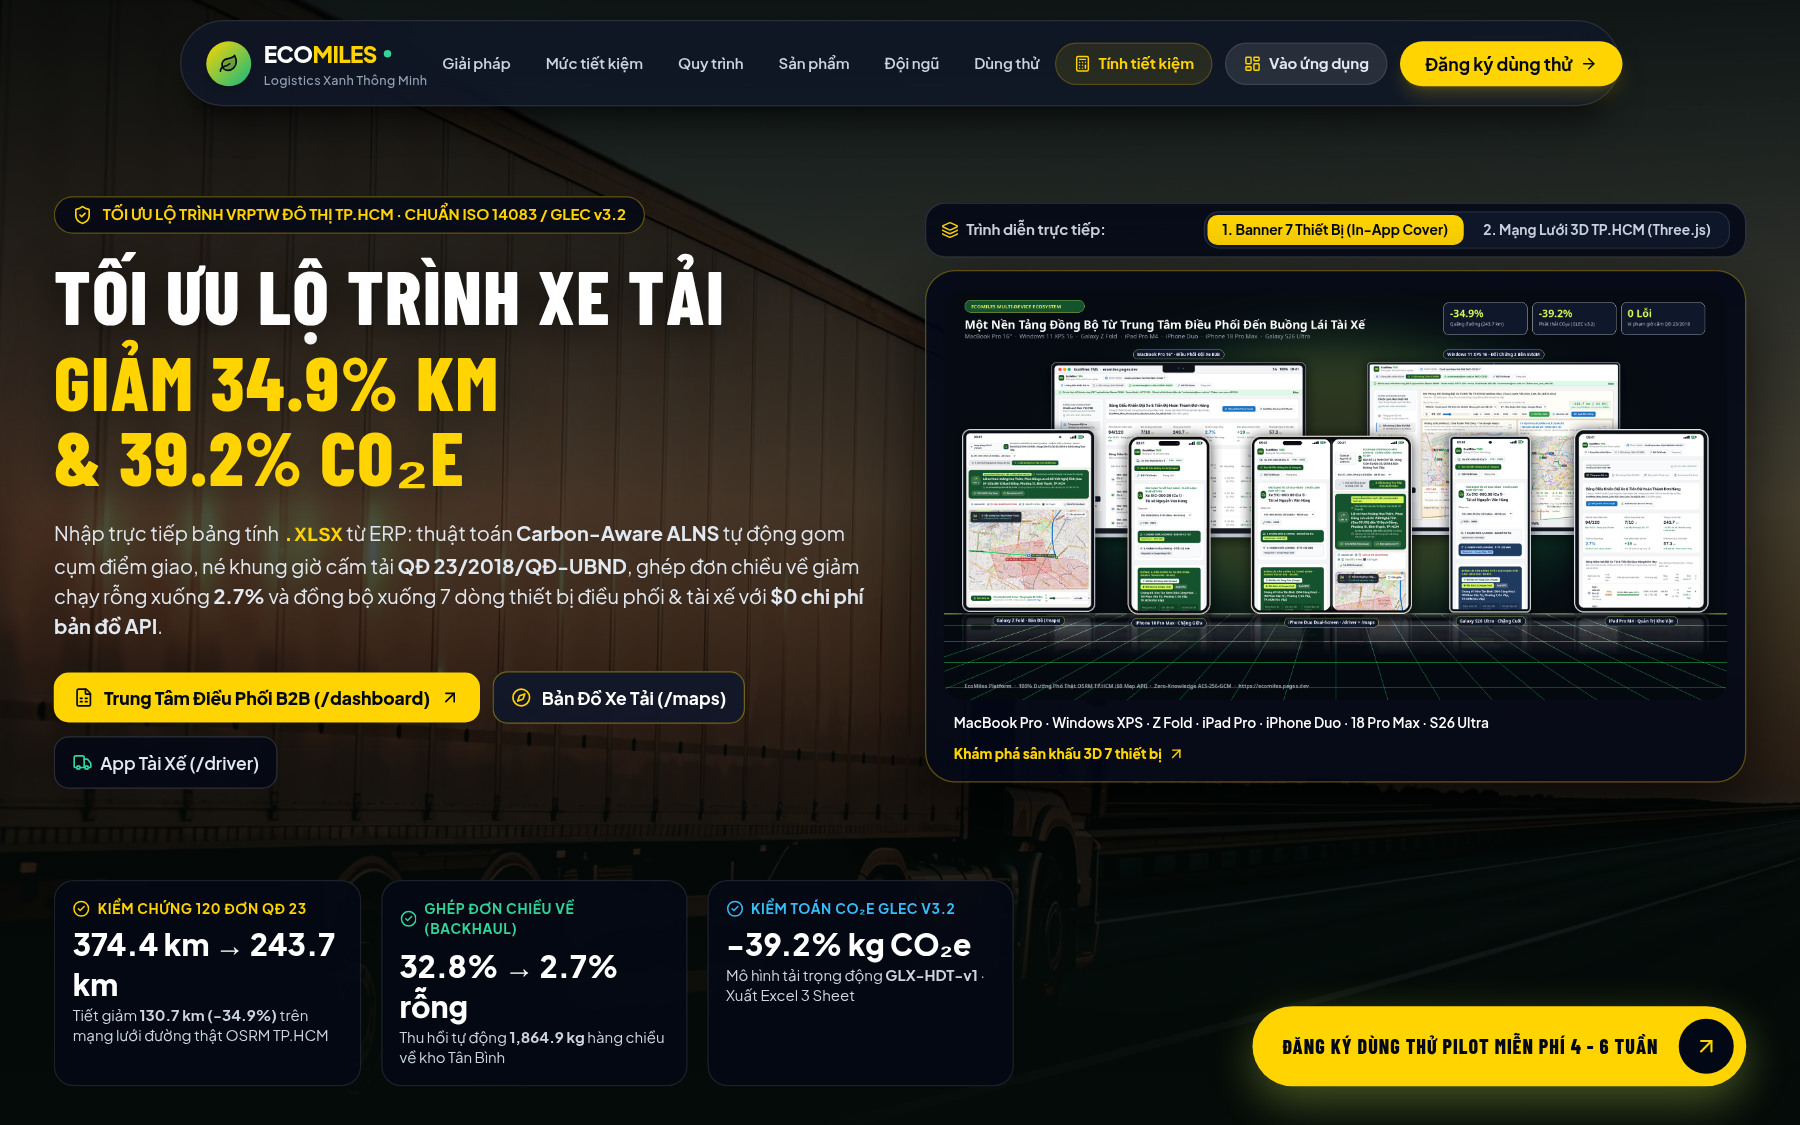
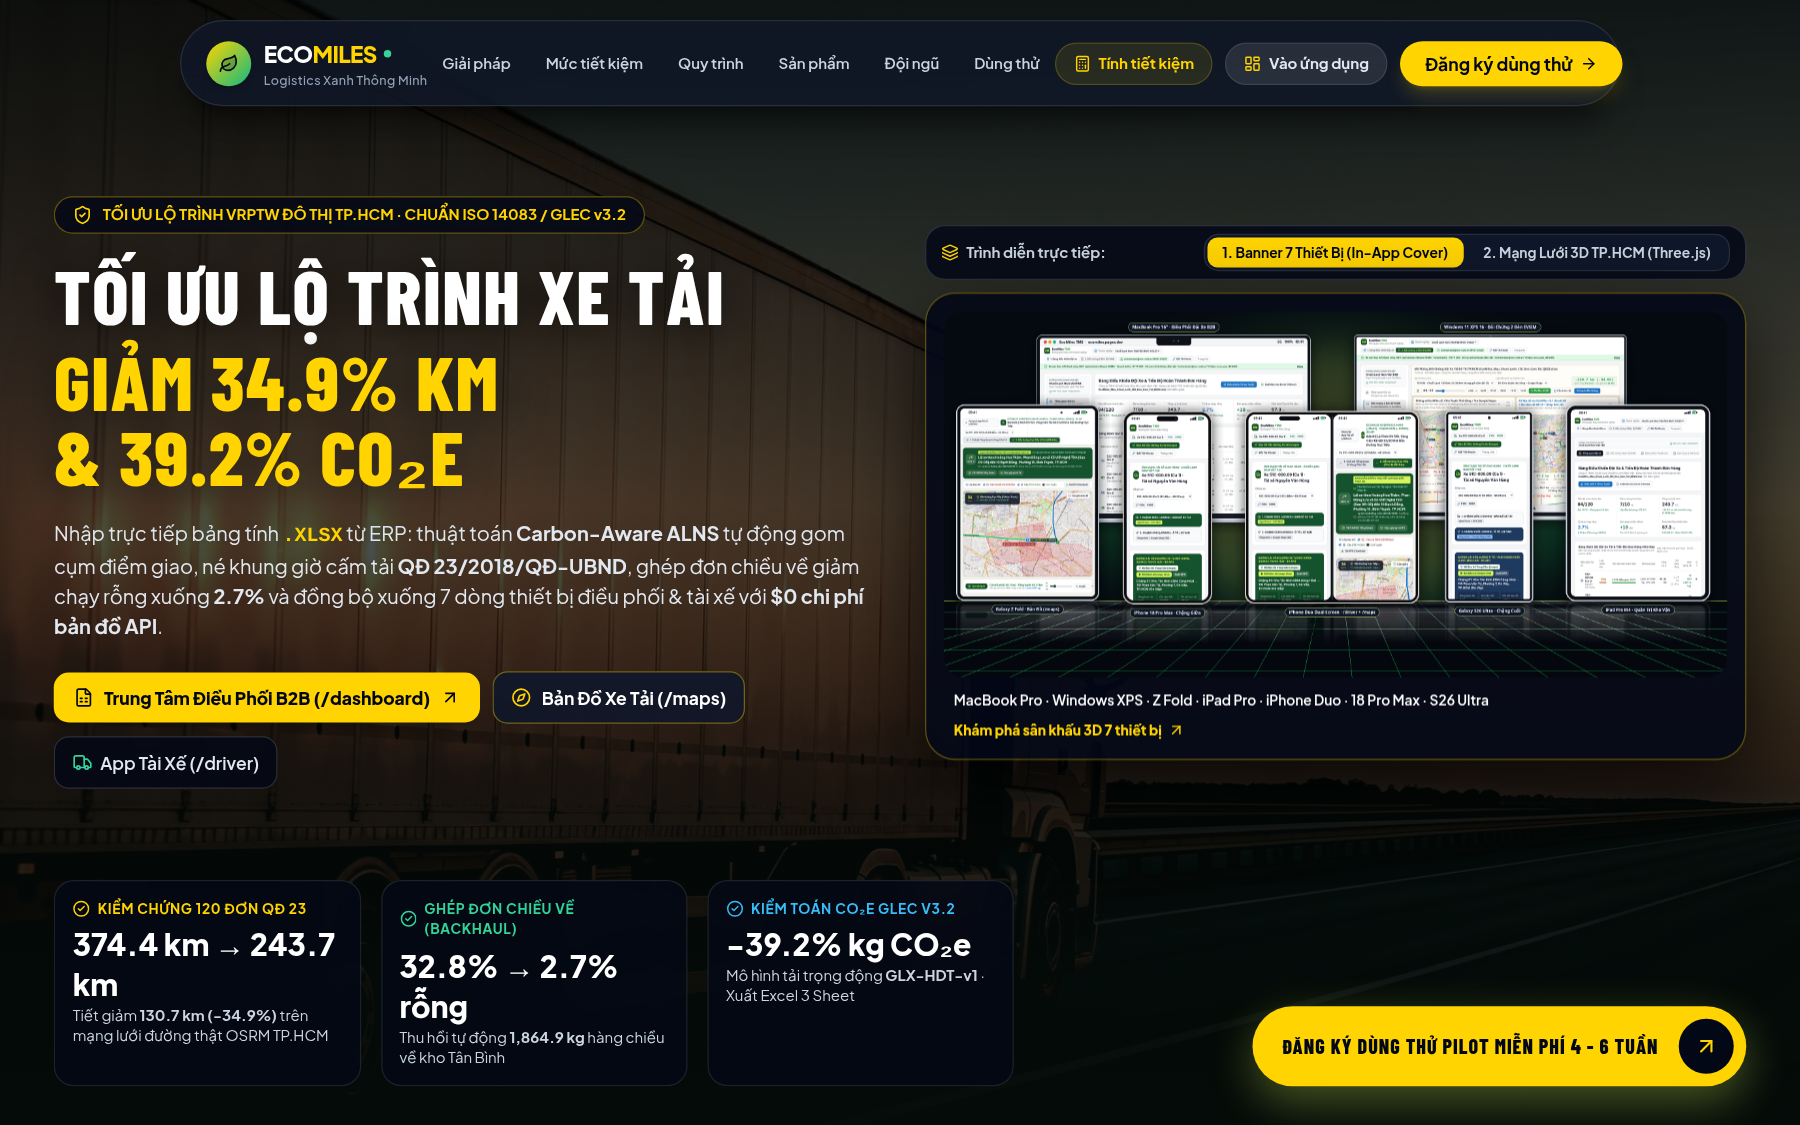
feat(phase4-react-loop): add pure 7-device hardware hero stage (zero baked-in text duplication), LinearFilter + 3D physical chassis in WebGL, and og:image cover meta tags (CR: CR-20261027-001)

Changed region(s): [[0.4978, 0.1556, 0.9956, 0.6844]]

diff --git a/apps/landing/src/components/ThreeDeviceEcosystemBanner.tsx b/apps/landing/src/components/ThreeDeviceEcosystemBanner.tsx
@@ -260,17 +260,35 @@ export const ThreeDeviceEcosystemBanner: React.FC<ThreeDeviceEcosystemBannerProp
       syncPulses.push(pulse);
     });
 
-    // Load 7 Real Device Textures (threejs-textures: tag SRGBColorSpace + maxAnisotropy)
+    // Load 7 Real Device Textures (threejs-textures: SRGBColorSpace + LinearFilter + 3D Physical Chassis Backing)
     const loader = new THREE.TextureLoader();
     const maxAniso = Math.min(8, renderer.capabilities.getMaxAnisotropy());
     const deviceMeshes: THREE.Mesh[] = [];
+    const chassisMeshes: THREE.Mesh[] = [];
     const loadedTextures: THREE.Texture[] = [];
 
     DEVICE_3D_SPECS.forEach((spec) => {
       const tex = loader.load(spec.textureUrl);
       tex.colorSpace = THREE.SRGBColorSpace;
+      tex.generateMipmaps = false;
+      tex.minFilter = THREE.LinearFilter;
+      tex.magFilter = THREE.LinearFilter;
       tex.anisotropy = maxAniso;
       loadedTextures.push(tex);
+
+      // 3D Physical Metallic Chassis Backing Plate behind each screen
+      const chassisGeo = new THREE.BoxGeometry(spec.width + 0.06, spec.height + 0.06, 0.045);
+      const chassisMat = new THREE.MeshBasicMaterial({
+        color: 0x1e293b,
+        transparent: true,
+        opacity: 0.92,
+      });
+      const chassis = new THREE.Mesh(chassisGeo, chassisMat);
+      chassis.position.set(spec.pos[0], spec.pos[1], spec.pos[2] - 0.026);
+      chassis.rotation.y = spec.rotY;
+      chassis.userData = { deviceId: spec.id, baseY: spec.pos[1], baseRotY: spec.rotY };
+      stageGroup.add(chassis);
+      chassisMeshes.push(chassis);
 
       const geo = new THREE.PlaneGeometry(spec.width, spec.height);
       const mat = new THREE.MeshBasicMaterial({
@@ -371,8 +389,17 @@ export const ThreeDeviceEcosystemBanner: React.FC<ThreeDeviceEcosystemBannerProp
           0.1
         );
 
+        const ch = chassisMeshes[i];
+        if (ch) {
+          const chMat = ch.material as THREE.MeshBasicMaterial;
+          chMat.opacity = THREE.MathUtils.lerp(chMat.opacity, isFocused ? 0.92 : 0.12, 0.12);
+          ch.rotation.y = m.rotation.y;
+        }
+
         if (!prefersReducedMotion) {
-          m.position.y = baseY + Math.sin(elapsed * 1.5 + i * 0.7) * 0.03;
+          const nextY = baseY + Math.sin(elapsed * 1.5 + i * 0.7) * 0.03;
+          m.position.y = nextY;
+          if (ch) ch.position.y = nextY;
         }
       });
 
@@ -403,6 +430,10 @@ export const ThreeDeviceEcosystemBanner: React.FC<ThreeDeviceEcosystemBannerProp
       deviceMeshes.forEach((m) => {
         m.geometry.dispose();
         (m.material as THREE.Material).dispose();
+      });
+      chassisMeshes.forEach((c) => {
+        c.geometry.dispose();
+        (c.material as THREE.Material).dispose();
       });
       loadedTextures.forEach((t) => t.dispose());
       renderer.dispose();

diff --git a/apps/landing/src/components/Hero.tsx b/apps/landing/src/components/Hero.tsx
@@ -252,7 +252,7 @@ export const Hero: React.FC<HeroProps> = ({ onOpenPilotModal }) => {
               >
                 <a href="#showcase" className="block relative overflow-hidden rounded-2xl">
                   <img
-                    src="/pitch-deck-screenshots/00_ecomiles_flagship_cover_banner.png"
+                    src="/pitch-deck-screenshots/00_ecomiles_clean_devices_hero_stage.png"
                     alt="EcoMiles 7-Device Flagship Cover Banner: MacBook Pro, Windows XPS, Galaxy Z Fold, iPad Pro, iPhone Duo, iPhone 18 Pro Max, Galaxy S26 Ultra"
                     className="w-full h-auto block rounded-2xl transition-transform duration-500 group-hover:scale-[1.015]"
                   />

diff --git a/apps/landing/src/components/DriverAndDispatcherShowcase.tsx b/apps/landing/src/components/DriverAndDispatcherShowcase.tsx
@@ -354,7 +354,7 @@ export const DriverAndDispatcherShowcase: React.FC = () => {
                 ) : stageRenderMode === 'studio_banner' ? (
                   <div className="w-full flex items-center justify-center">
                     <img
-                      src="/pitch-deck-screenshots/00_ecomiles_flagship_cover_banner.png"
+                      src="/pitch-deck-screenshots/00_ecomiles_clean_devices_hero_stage.png"
                       alt="EcoMiles 7-Device Flagship Studio Cover Banner with Floor Reflections"
                       className="max-h-[450px] w-auto max-w-full mx-auto block object-contain drop-shadow-[0_20px_44px_rgba(0,0,0,0.85)] rounded-xl"
                     />

diff --git a/scripts/build_pitch_deck_composites.py b/scripts/build_pitch_deck_composites.py
@@ -721,9 +721,67 @@ def build_master_cover_banner() -> str:
     return p0
 
 
+def build_clean_devices_hero_stage() -> str:
+    """
+    Builds `00_ecomiles_clean_devices_hero_stage.png` (2400 x 1120):
+    Pure 7-Device Hardware V-Formation Studio Stage with ZERO baked-in headline or KPI boxes
+    (scroll-craft rule: never duplicate baked-in text inside a hero image when real HTML markup carries the headline).
+    Features larger hardware frames, volumetric emerald spotlight, perspective studio floor grid, and glossy floor reflections.
+    """
+    W, H = 2400, 1120
+    floor_y = 885
+    stage = Image.new("RGBA", (W, H), (5, 10, 17, 255))
+
+    glow = Image.new("RGBA", (W, H), (0, 0, 0, 0))
+    gd = ImageDraw.Draw(glow)
+    gd.ellipse([220, 40, 2180, 980], fill=(16, 82, 48, 135))
+    gd.ellipse([680, 140, 1720, 860], fill=(214, 246, 90, 48))
+    glow = glow.filter(ImageFilter.GaussianBlur(90))
+    stage = Image.alpha_composite(stage, glow)
+
+    bd = ImageDraw.Draw(stage)
+    bd.rectangle([0, floor_y, W, H], fill=(4, 8, 14, 248))
+    for gx in range(-400, W + 400, 150):
+        bd.line([(W // 2 + (gx - W // 2) // 2, floor_y), (gx, H)], fill=(34, 197, 94, 26), width=1)
+    for gy in [floor_y + 35, floor_y + 85, floor_y + 150, floor_y + 215]:
+        bd.line([(0, gy), (W, gy)], fill=(34, 197, 94, 20), width=1)
+    bd.line([(0, floor_y), (W, floor_y)], fill=(214, 246, 90, 125), width=2)
+
+    # Tier 1 (Rear Apex — Larger Laptops): MacBook Pro 16" + Windows 11 XPS 16
+    mbp = render_macbook_pro_16(os.path.join(SHOT_DIR, "01_desktop_b2b_tms_fleet_overview.png"), 820, 512)
+    xps = render_windows_xps_laptop(os.path.join(SHOT_DIR, "02_desktop_b2b_tms_evsim_dual_simulator.png"), 820, 512)
+    paste_studio_device_with_reflection(stage, mbp, (270, 72), floor_y, "MacBook Pro 16\" · Điều Phối Đội Xe B2B", "top")
+    paste_studio_device_with_reflection(stage, xps, (1245, 72), floor_y, "Windows 11 XPS 16 · Đối Chứng 2 Bên EVSIM", "top")
+
+    # Tier 2 (Mid Wings — Larger Tablets): Samsung Galaxy Z Fold + iPad Pro M4
+    zfold = render_samsung_zfold_tablet(os.path.join(SHOT_DIR, "11_tablet_maps_live_navigate_cockpit.png"), 414, 552)
+    ipad = render_ipad_pro_tablet(os.path.join(SHOT_DIR, "09_tablet_b2b_tms_fleet_overview.png"), 414, 552)
+    paste_studio_device_with_reflection(stage, zfold, (38, 285), floor_y, "Galaxy Z Fold · Bản Đồ (/maps)", "bottom")
+    paste_studio_device_with_reflection(stage, ipad, (1905, 285), floor_y, "iPad Pro M4 · Quản Trị Kho Vận", "bottom")
+
+    # Tier 3 (Foreground Center Focal Trio — Larger Phones): iPhone 18 Pro Max + iPhone Duo + Galaxy S26 Ultra
+    ip18 = render_iphone_18_pro_max(os.path.join(SHOT_DIR, "13_mobile_driver_middle_mile_hud.png"), 252, 545)
+    duo = render_iphone_duo_dual_screen(
+        os.path.join(SHOT_DIR, "13_mobile_driver_middle_mile_hud.png"),
+        os.path.join(SHOT_DIR, "15_mobile_maps_live_follow_truck_nav.png"),
+        252,
+        545,
+    )
+    s26 = render_samsung_s26_ultra(os.path.join(SHOT_DIR, "14_mobile_driver_last_mile_gmaps_waypoints.png"), 252, 545)
+
+    paste_studio_device_with_reflection(stage, ip18, (545, 305), floor_y, "iPhone 18 Pro Max · Chặng Giữa", "bottom")
+    paste_studio_device_with_reflection(stage, duo, (922, 305), floor_y, "iPhone Duo Dual-Screen · /driver + /maps", "bottom")
+    paste_studio_device_with_reflection(stage, s26, (1535, 305), floor_y, "Galaxy S26 Ultra · Chặng Cuối", "bottom")
+
+    p_clean = os.path.join(SHOT_DIR, "00_ecomiles_clean_devices_hero_stage.png")
+    stage.convert("RGB").save(p_clean, quality=95)
+    return p_clean
+
+
 def build_all() -> list[str]:
     built = []
     built.append(build_master_cover_banner())
+    built.append(build_clean_devices_hero_stage())
 
     m_ip18 = render_iphone_18_pro_max(os.path.join(SHOT_DIR, "13_mobile_driver_middle_mile_hud.png"), 390, 844)
     p21 = os.path.join(SHOT_DIR, "21_mockup_iphone_18_pro_max_driver.png")
